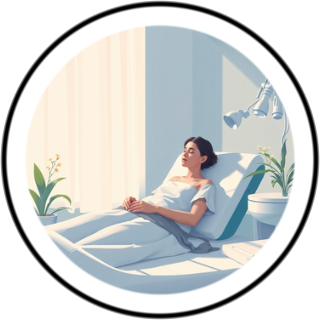
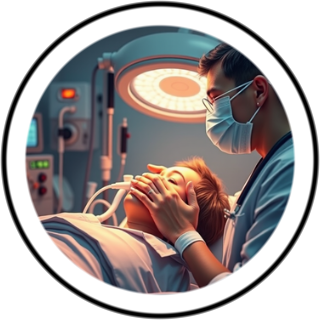
UI 2.1 + intubation updated, apple extended

diff --git a/Assets/SharedSyncControls/Scripts/Procedures/intubation.ts b/Assets/SharedSyncControls/Scripts/Procedures/intubation.ts
@@ -179,31 +179,55 @@ export const intubationProcedure = {
         { "condition": "Fail", "next": 11 }
       ]
     },
-    {
+     {
       "step": 8,
-      "action": "Confirm Tube Placement",
+      "action": "Confirm Tube Placement (Initial Checks)",
       "tool": {
         "checklist": {
           "items": [
             "Check for consistent chest rise",
-            "Secure the tube",
-            "Say out loud: 'Tube Confirmed and Secured'",
-            "Start sedation",
-            "Check SpO2 after successful intubation (should rise to ~99%)"
+            "Attach bag and ventilate",
+            "Check SpO2 after intubation"
           ]
         },
         "reminder": {
           "items": [
-            "Document tube depth if markings are available."
+            "SpO2 should begin improving.",
+            "Do not assume placement is correct yet."
           ]
         }
       },
       "next": [
-        { "condition": "", "next": "DONE" }
+        { "condition": "", "next": 9 }
       ]
     },
     {
       "step": 9,
+      "action": "Auscultation with Stethoscope",
+      "tool": {
+        "checklist": {
+          "items": [
+            "Listen over left lung, and right lung - Confirm bilateral breath",
+            "Listen over stomach (epigastrium) - Confirm no gastric sounds",
+            "(Unequal breath sounds may indicate mainstem intubation.)", 
+            "(Gastric Sounds suggest esophageal intubation.)", 
+            "Say: 'Breath Sounds Confirmed Bilaterally, no gastric sounds.'"
+          ]
+        },
+        "reminder": {
+          "items": [
+            "",
+            "Gastric sounds suggest esophageal intubation.",
+            "Say: 'Breath sounds confirmed bilaterally, no gastric sounds.'"
+          ]
+        }
+      },
+      "next": [
+        { "condition": "", "next": 10 }
+      ]
+    },
+    {
+      "step": 10,
       "action": "Awake Intubation Strategy",
       "tool": {
         "checklist": {
@@ -216,19 +240,19 @@ export const intubationProcedure = {
         }
       },
       "next": [
-        { "condition": "", "next": 10 }
-      ]
-    },
-    {
-      "step": 10,
-      "action": "Awake Attempt Result",
-      "next": [
-        { "condition": "Success", "next": 8 },
-        { "condition": "Fail", "next": 12 }
+        { "condition": "", "next": 11 }
       ]
     },
     {
       "step": 11,
+      "action": "Awake Attempt Result",
+      "next": [
+        { "condition": "Success", "next": 8 },
+        { "condition": "Fail", "next": 13 }
+      ]
+    },
+    {
+      "step": 12,
       "action": "Failure Management",
       "tool": {
         "checklist": {
@@ -243,7 +267,7 @@ export const intubationProcedure = {
       ]
     },
     {
-      "step": 12,
+      "step": 13,
       "action": "Ventilating - Decide Next Action",
       "tool": {
         "checklist": {
@@ -251,12 +275,12 @@ export const intubationProcedure = {
             "Continue giving oxygen",
             "Confirm chest rise with ventilation",
             "Confirm SpO2 is improving or stable",
-            "Reassess next airway plan",
-            "Do not retry until oxygenation is stable.",
+            "Reassess next airway plan"
           ]
         },
         "reminder": {
           "items": [
+            "Do not retry until oxygenation is stable.",
             "If SpO2 remains low, continue ventilation before attempting again."
           ]
         }
